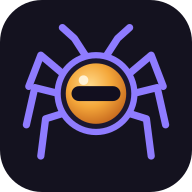
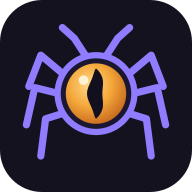
feat: the mark's pupil stands tall, with a gentle wave

Changed region(s): [[0.3438, 0.3438, 0.6562, 0.625]]

diff --git a/docs/01-Specification/Web-UI.md b/docs/01-Specification/Web-UI.md
@@ -35,18 +35,17 @@ Eye's conversation sit beside them ([[Chats-and-Helper]]).
   indicator shows live / reconnecting / offline. When offline, the last
   known state stays on screen, clearly marked stale.
 - A PWA, installable on desktop and phone.
-- **The mark** (2026-10-03): an octopus's eye, round with a horizontal
-  pupil and an amber iris, on eight jointed spider legs in violet, on a
+- **The mark** (2026-10-03): a big round eye with an amber iris and a
+  tall slit pupil with a gentle wave along it (changed from a horizontal
+  pupil the same day: I kept this mark over the concepts), on eight jointed spider legs in violet, on a
   dark tile. `icon.svg` is the favicon and the mark in the sidebar, the
   lock screen and pairing; PNG icons (192, 512, maskable) and an
   `apple-touch-icon` for a phone's home screen; `logo.svg` is the mark
   alone. The Nest's loader uses the same.
 
-- **A new mark is being chosen** ([[Phase-11-Workspace]] → M11.6): a
-  big octopus eye with spider legs from its edges, all pointing down,
-  two at the top meeting in a V. Three concepts are in
-  `docs/assets/logo-concepts/`; the chosen one replaces the current
-  mark in the app, the loader and the site.
+- The three concepts drawn for a new mark stay in
+  `docs/assets/logo-concepts/`; I kept the current mark, with its pupil
+  made vertical and gently wavy ([[Phase-11-Workspace]] → M11.6).
 
 ## Layout
 

diff --git a/docs/03-Planning/Phase-11-Workspace.md b/docs/03-Planning/Phase-11-Workspace.md
@@ -44,7 +44,7 @@ can't use what I use at home; and The Nest should serve other people.
 - [x] The app's own look, following the mark, in place of the stock component look: ink surfaces, violet, IBM Plex Sans and JetBrains Mono ([[Web-UI]] → Look)
 - [x] A product site at The Nest's root: what Oraknid is and how it works, install, a guide, the sources, my contact; real screenshots of the app; the loader moved to `/app/` ([[ADR-033-Product-Site]]); deployed on both Nests 2026-10-03
 - [x] A command in an inbox title shows as code, not between backticks
-- [ ] A new mark: a big octopus eye, spider legs from its edges all pointing down, two at the top meeting in a V; three concepts drawn (`docs/assets/logo-concepts/`), mine to choose; then its kit (sizes, lockups with the name) in the app, the loader and the site
+- [x] The mark (2026-10-03): three concepts drawn (`docs/assets/logo-concepts/`); I kept the current one with its pupil made vertical and gently wavy, in the app, the loader and the site (SVGs, the PNG icons, the link preview)
 
 Tested: the back navigation's history counting (`apps/web/src/lib/nav.test.tsx`). The rest has no automated test.
 
